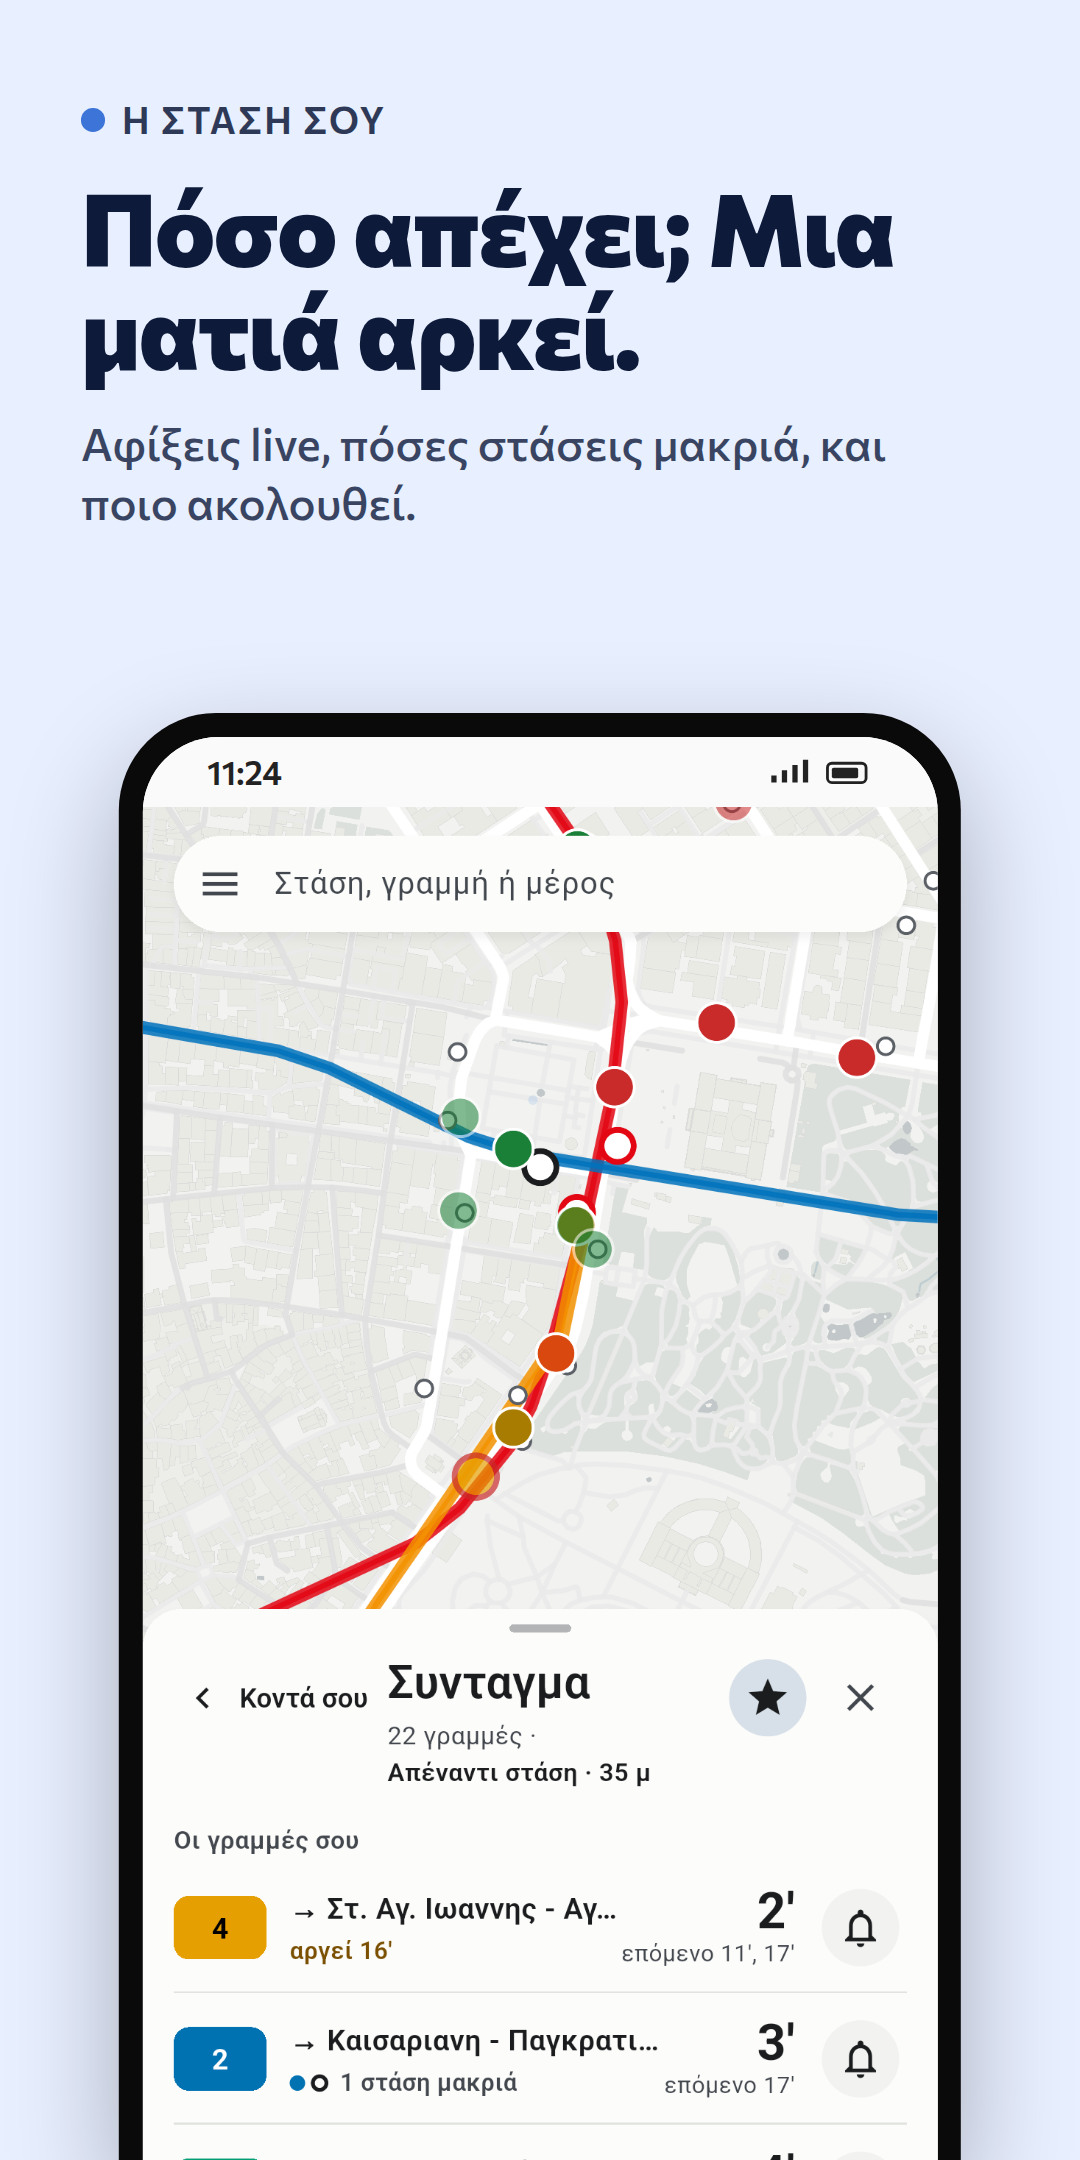
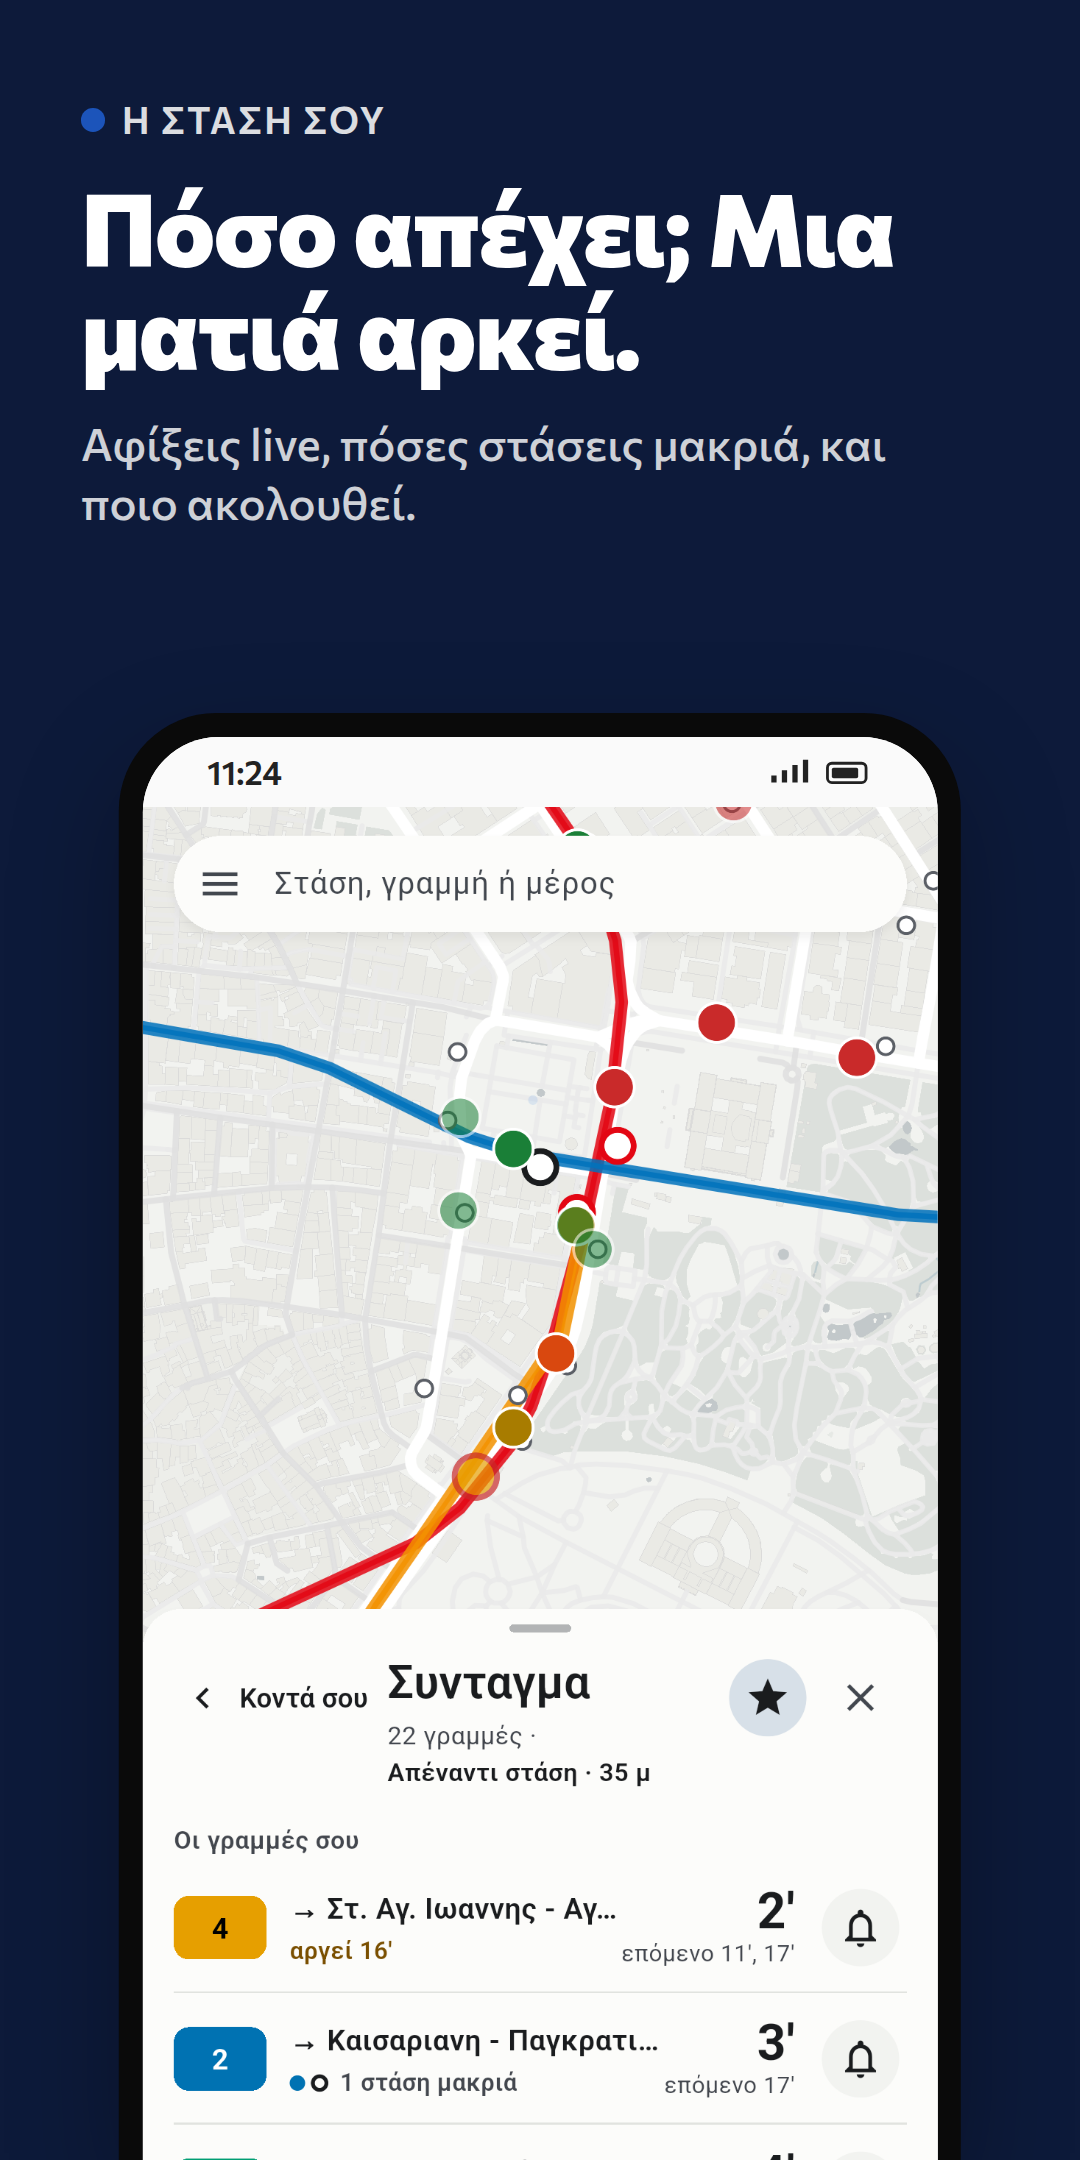
Store: all Play screenshots on the navy background
Frames 02 and 04 were light blue between navy frames. Re-rendered only the Play set; the
iOS set already sent to App Store Connect stays as is until its next render.

diff --git a/docs/store/screenshots/src/slides.html b/docs/store/screenshots/src/slides.html
@@ -53,11 +53,11 @@ const bar = (cls='') => iphone
 const S = {
   1:{c:'dark',dot:'var(--yellow)',k:'Live χάρτης',h:'Κάθε λεωφορείο της Αθήνας. Τώρα.',p:'Δες πού είναι, και αν αργεί, πριν βγεις από το σπίτι.',
      scr:`<div class="screen">${bar()}<img src="${cap('home')}"></div>`},
-  2:{c:'light',dot:'var(--blue)',k:'Η στάση σου',h:'Πόσο απέχει; Μια ματιά αρκεί.',p:'Αφίξεις live, πόσες στάσεις μακριά, και ποιο ακολουθεί.',
+  2:{c:'dark',dot:'var(--blue)',k:'Η στάση σου',h:'Πόσο απέχει; Μια ματιά αρκεί.',p:'Αφίξεις live, πόσες στάσεις μακριά, και ποιο ακολουθεί.',
      scr:`<div class="screen">${bar()}<img src="${cap('stop')}"></div>`},
   3:{c:'dark',dot:'var(--green)',k:'Ειδοποιήσεις',h:'Μην περιμένεις στη στάση.',p:'Σε ειδοποιεί λίγα λεπτά πριν φτάσει το λεωφορείο.',
      scr:`<div class="screen"${iphone ? ' style="background:#f1f3f9"' : ''}>${bar()}<img src="${cap('alert')}"></div>`},
-  4:{c:'light',dot:'var(--red)',k:'Με κλειστή εφαρμογή',h:'Σε ενημερώνει live. Ακόμα και κλειστή.',p:'Η κάρτα μετρά αντίστροφα μέχρι να έρθει το λεωφορείο σου.',
+  4:{c:'dark',dot:'var(--red)',k:'Με κλειστή εφαρμογή',h:'Σε ενημερώνει live. Ακόμα και κλειστή.',p:'Η κάρτα μετρά αντίστροφα μέχρι να έρθει το λεωφορείο σου.',
      scr:`<div class="screen">${bar()}<img class="dim" src="home.png"><div class="notif"><img src="notif.png"></div></div>`},
   5:{c:'dark',dot:'var(--blue)',k:'Διαδρομή',h:'Λεωφορείο, μετρό, ή και τα δύο.',p:'Ο γρηγορότερος δρόμος, και πού να κατέβεις.',
      extra:`<div class="badges"><span class="badge"><svg><use href="#check"/></svg>Χωρίς λογαριασμό</span><span class="badge"><svg><use href="#check"/></svg>Χωρίς διαφημίσεις</span></div>`,
